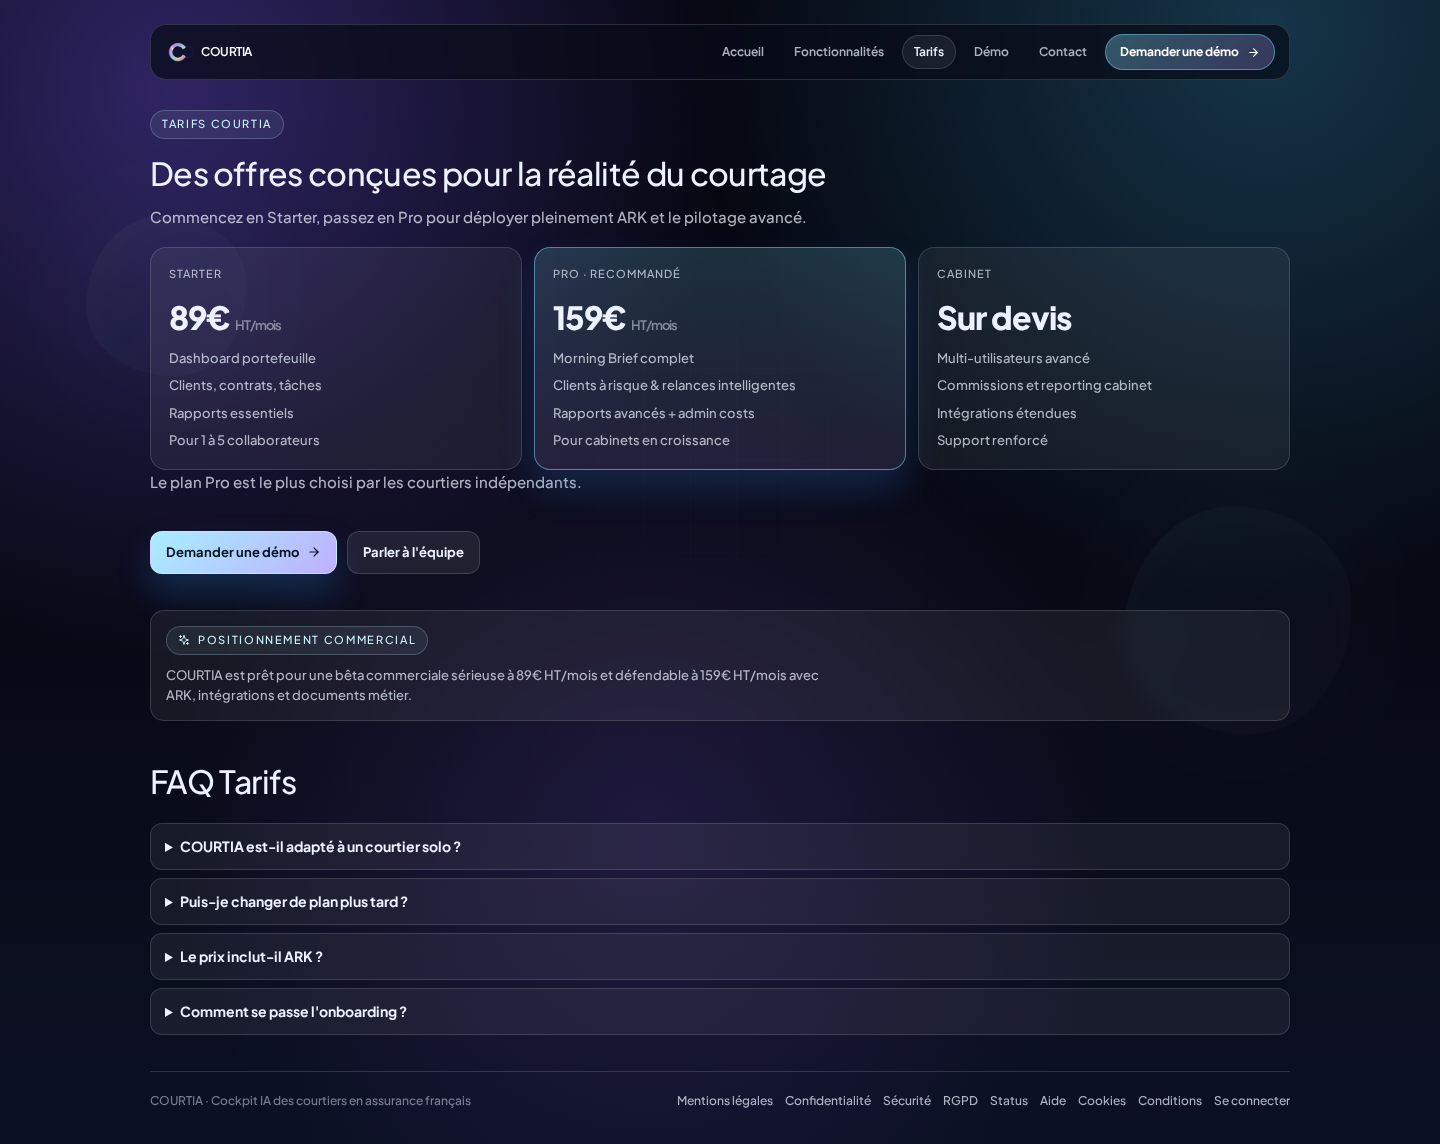
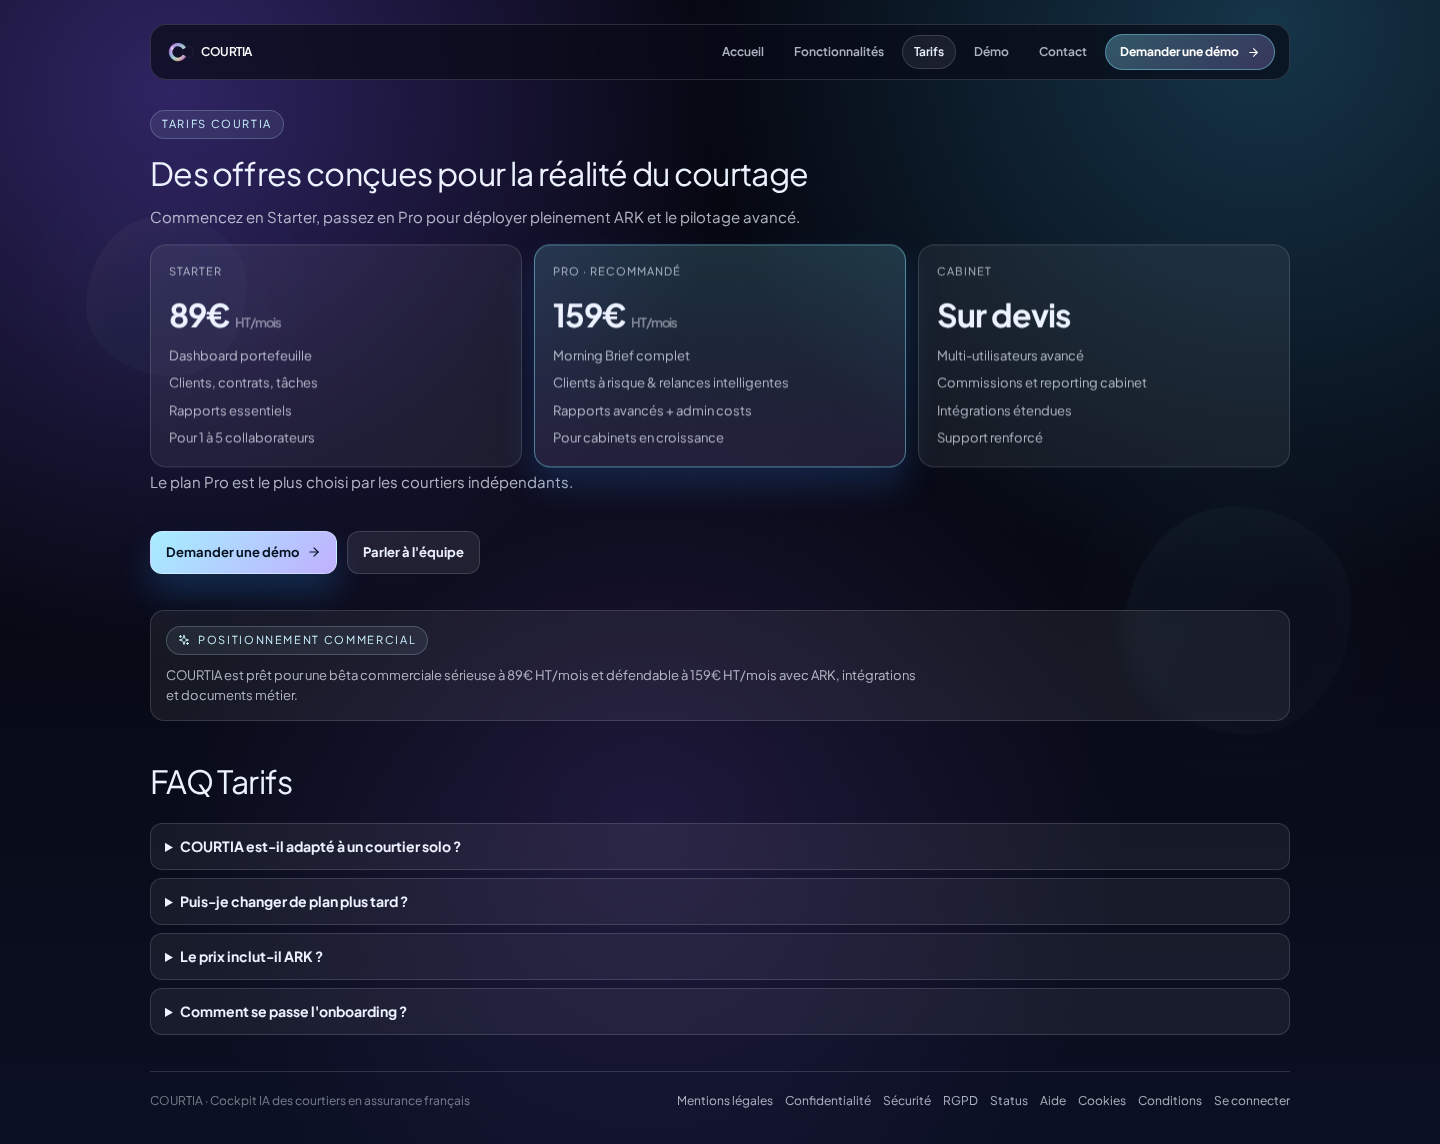
fix: replace unverified metrics with honest product proof + mobile responsive polish
- Manifeste: -80%/+30% → PRÉPARATION DDA / 0 RELANCE / 14 JOURS
- Proof: +3h/98%/124 → 10 MODULES / <15min DÉMO / 1 COCKPIT
- Pricing: Pro 199€→159€, Pro ARK rename, Premium→Cabinet Sur devis
- Mobile: 3 breakpoints (600/480/375), hero overflow, stat sizes, padding

diff --git a/frontend/src/pages/LandingPublic.jsx b/frontend/src/pages/LandingPublic.jsx
@@ -140,16 +140,16 @@ function ManifesteSection() {
         </p>
         <div className="manifeste-stats">
           <div className="manifeste-stat">
-            <span className="manifeste-stat-value">-80%</span>
-            <span className="manifeste-stat-label">de temps de saisie</span>
+            <span className="manifeste-stat-value">PRÉPARATION DDA</span>
+            <span className="manifeste-stat-label">ASSISTÉE</span>
           </div>
           <div className="manifeste-stat">
-            <span className="manifeste-stat-value">+30%</span>
-            <span className="manifeste-stat-label">de taux de relance Hamon/Chatel</span>
+            <span className="manifeste-stat-value">0</span>
+            <span className="manifeste-stat-label">RELANCE HAMON/CHATEL OUBLIÉE</span>
           </div>
           <div className="manifeste-stat">
-            <span className="manifeste-stat-value">20 min</span>
-            <span className="manifeste-stat-label">→ 3 clics pour un DDA</span>
+            <span className="manifeste-stat-value">14 JOURS</span>
+            <span className="manifeste-stat-label">POUR TESTER SANS RISQUE</span>
           </div>
         </div>
       </div>
@@ -407,10 +407,10 @@ function FeatureCard({ tag, title, desc, index }) {
 
 function ProofSection() {
   const stats = [
-    { value: '8', label: 'features IA-natives' },
-    { value: '+3h', label: 'gagnées par semaine' },
-    { value: '98%', label: 'de satisfaction' },
-    { value: '124', label: 'clients pilotes' },
+    { value: '10', label: 'MODULES IA-NATIFS' },
+    { value: '0', label: 'RELANCE HAMON/CHATEL OUBLIÉE' },
+    { value: '< 15 min', label: 'DÉMO EN CONDITIONS RÉELLES' },
+    { value: '1 COCKPIT', label: 'CLIENTS, CONTRATS, ALERTES' },
   ];
   return (
     <section className="proof">
@@ -435,17 +435,17 @@ function PricingSection() {
       features: ['Portefeuille jusqu\'à 200 clients', 'ARK Watch + Doc Vision + Morning Brief', 'Scoring prédictif', 'Support email', 'Sans engagement'],
     },
     {
-      name: 'Pro',
-      price: '199',
-      desc: 'Toute la puissance d\'ARK + Vague 1',
-      features: ['Portefeuille illimité', 'Tous les pouvoirs ARK + Vague 1', 'Smart Relances + Revenue Forecast', 'Doc Intel + Voice Intake', 'Support prioritaire', 'Sans engagement'],
+      name: 'Pro ARK',
+      price: '159',
+      desc: 'Toute la puissance d\'ARK',
+      features: ['Portefeuille illimité', 'ARK Coach + Négociateur + Veille', 'Smart Relances + Revenue Forecast', 'Doc Intel + Voice Intake', 'Bordereau intelligent', 'Support prioritaire', 'Sans engagement'],
       featured: true,
     },
     {
-      name: 'Premium',
-      price: '299',
-      desc: 'Vague 2 — Le cockpit ultime',
-      features: ['Tout le plan Pro', 'ARK Voice illimité (appels IA)', 'Email Parser + boîte unifiée', 'DDA Auto-Audit illimité', 'Rapports PDF ACPR-ready', 'Support dédié', 'Sans engagement'],
+      name: 'Cabinet',
+      price: 'Sur devis',
+      desc: 'Multi-courtiers · Vague 2 · White-label',
+      features: ['Tout le plan Pro ARK', 'ARK Voice illimité (appels IA)', 'Email Parser + boîte unifiée', 'Multi-utilisateurs & rôles', 'Rapports PDF ACPR-ready', 'API + Widget ARK embeddable', 'Support dédié'],
     },
   ];
 
@@ -1204,5 +1204,36 @@ html, body, #root {
   .cta-row { flex-direction: column; width: 100%; }
   .cta-primary, .cta-ghost { justify-content: center; }
   .footer-links { flex-direction: column; gap: 16px; }
+}
+
+@media (max-width: 480px) {
+  .wordmark { font-size: 38px; letter-spacing: -1px; }
+  .tagline { font-size: 13px; max-width: 100%; }
+  .band-title { font-size: clamp(24px, 6vw, 36px); }
+  .band-text { font-size: 13px; }
+  .band, .powers, .proof, .pricing, .how { padding: 60px 20px; }
+  .manifeste-stats { gap: 20px; }
+  .manifeste-stat-value { font-size: clamp(24px, 8vw, 40px); line-height: 1.1; word-break: break-word; }
+  .manifeste-stat-label { font-size: 8px; letter-spacing: 2px; }
+  .proof-inner { gap: 32px; }
+  .proof-value { font-size: clamp(36px, 10vw, 56px); word-break: break-word; }
+  .proof-label { font-size: 8px; letter-spacing: 2px; }
+  .pricing-grid { gap: 16px; }
+  .pricing-card { padding: 28px 20px; }
+  .cta-primary, .cta-ghost { width: 100%; text-align: center; padding: 16px 20px; font-size: 14px; }
+  .sticky-header { padding: 12px 20px; }
+  .sticky-cta { font-size: 11px; padding: 8px 14px; }
+  .footer-grid { grid-template-columns: 1fr; gap: 24px; text-align: center; }
+  .hero { padding-top: 120px; min-height: auto; }
+  .bubble-frame { width: 100%; max-width: 340px; margin: 0 auto; }
+  .stage { overflow-x: hidden; }
+}
+
+@media (max-width: 375px) {
+  .wordmark { font-size: 32px; }
+  .manifeste-stat-value { font-size: clamp(20px, 7vw, 32px); }
+  .proof-value { font-size: clamp(28px, 8vw, 42px); }
+  .proof-inner { grid-template-columns: 1fr 1fr; gap: 24px; }
+  .band, .powers, .proof, .pricing, .how { padding: 48px 16px; }
 }
 `;
